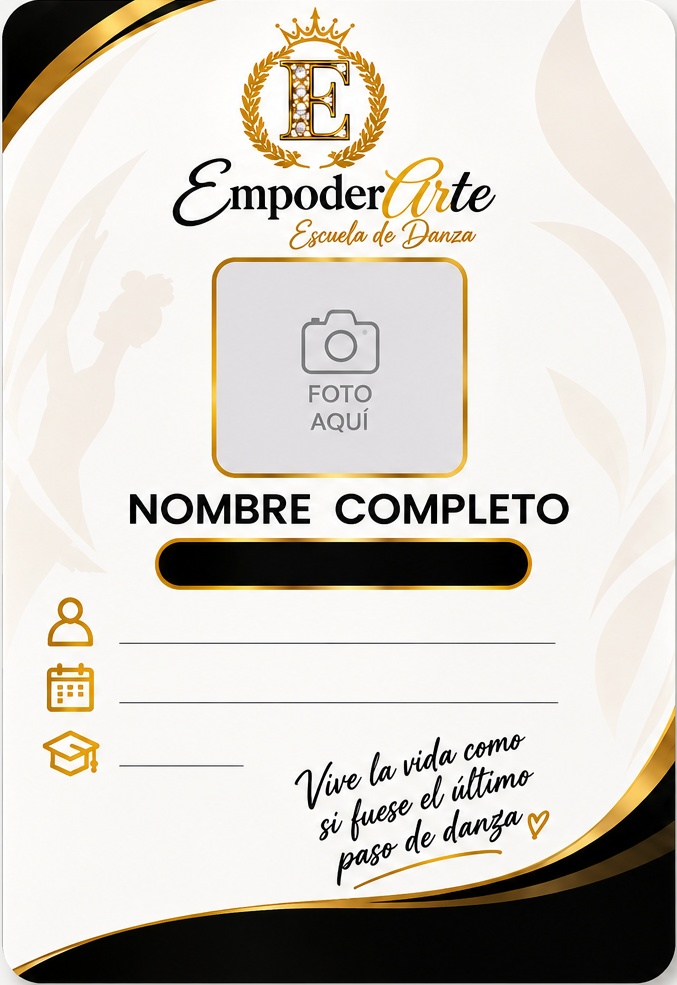
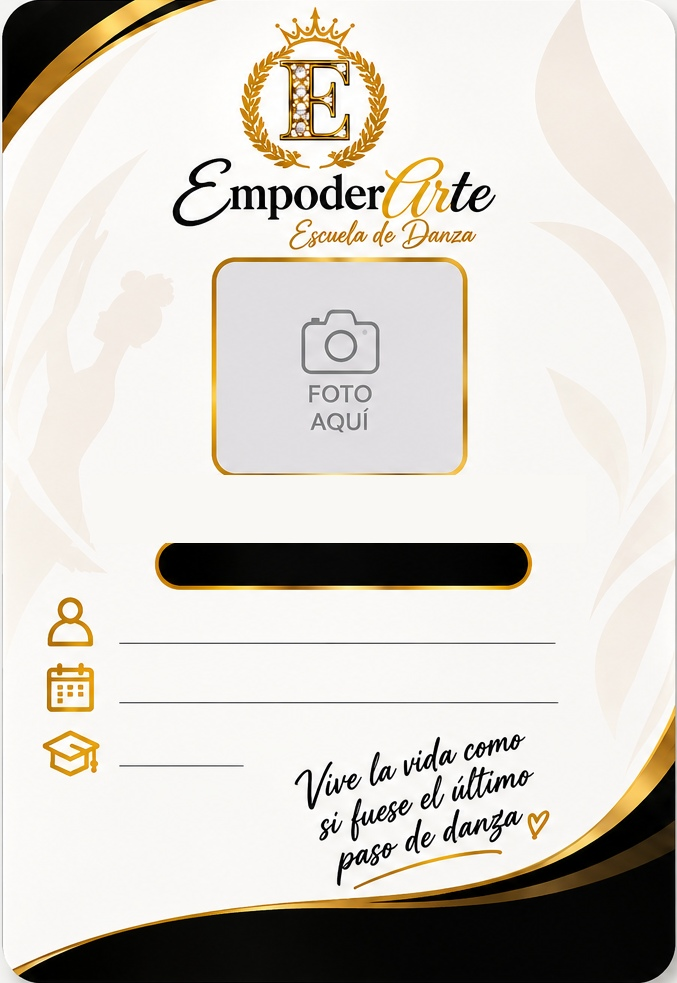
Add files via upload

diff --git a/index.html b/index.html
@@ -136,12 +136,15 @@
 .cred-exact img.cred-bg{position:absolute;inset:0;width:100%;height:100%;object-fit:fill;display:block}
 .cred-overlay{position:absolute;inset:0;font-family:Arial,Helvetica,sans-serif}
 .cred-photo-exact{position:absolute;left:31.875%;top:24.64%;width:37.03%;height:22.58%;object-fit:cover;border-radius:2.2mm;border:0;z-index:3}
-.cred-name-mask{position:absolute;left:14.375%;top:47.99%;width:71.25%;height:5.15%;background:rgba(255,255,255,.97);border-radius:1.5mm;z-index:1}
+.cred-name-mask{display:none}
 .cred-name-exact{position:absolute;left:14.84%;top:48.76%;width:70.31%;height:4.33%;display:flex;align-items:center;justify-content:center;color:#111;font-family:Georgia,serif;font-size:3mm;font-weight:700;text-transform:uppercase;line-height:1;white-space:nowrap;overflow:hidden;z-index:2}
 .cred-role-exact{position:absolute;left:26.56%;top:53.30%;width:46.88%;height:4.85%;display:flex;align-items:center;justify-content:center;background:#050505;color:#fff;border:.45mm solid #c99a32;border-radius:28px;letter-spacing:.7mm;font-size:3mm;font-weight:700;z-index:3}
-.cred-data-exact{position:absolute;left:19.69%;top:58.56%;width:44.53%;height:18.04%;color:#111;background:transparent;line-height:1.08;z-index:3}
-.cred-data-exact .lbl{display:block;font-size:1.75mm;margin-top:0;color:#111}
-.cred-data-exact .val{display:block;font-size:2.35mm;font-weight:700;margin-bottom:1.2mm;background:rgba(255,255,255,.97);width:100%;white-space:nowrap;overflow:hidden;color:#111}
+.cred-data-exact{position:absolute;left:17.2%;top:58.8%;width:66.2%;height:18.2%;color:#111;z-index:3;font-family:Arial,Helvetica,sans-serif}
+.cred-data-exact .data-line{height:33.33%;display:flex;align-items:center;gap:1.2mm;white-space:nowrap;overflow:hidden;line-height:1}
+.cred-data-exact .lbl{font-size:1.85mm;color:#222;font-weight:700;flex:0 0 auto}
+.cred-data-exact .val{font-size:2.35mm;font-weight:800;color:#111;white-space:nowrap;overflow:hidden;text-overflow:ellipsis;min-width:0}
+.cred-data-exact .discipline-line{width:54%}
+.cred-data-exact .discipline-line .val{max-width:45%}
 .cred-qr-exact{position:absolute;left:9.53%;top:78.04%;width:25.78%;height:13.61%;display:flex;align-items:center;justify-content:center;overflow:hidden;background:#fff;z-index:3}
 .cred-qr-exact img{width:100%;height:100%;display:block;object-fit:contain}
 @media print{body *{visibility:hidden!important}.cred-print-wrap,.cred-print-wrap *{visibility:visible!important}.cred-print-wrap{position:absolute;left:0;top:0;width:100%;height:100%;background:#fff!important;padding:0!important;gap:8mm!important;align-items:center;justify-content:center;flex-wrap:nowrap}.cred-exact{box-shadow:none!important;break-inside:avoid;page-break-inside:avoid}}
@@ -250,7 +253,11 @@ function credentialMarkup(p,type){
     <div class="cred-size-row"><label>Ancho (mm)<input id="credSizeW" type="number" min="40" max="100" step="1" value="56" oninput="updateCredentialSize()"></label><label>Alto (mm)<input id="credSizeH" type="number" min="60" max="140" step="1" value="85" oninput="updateCredentialSize()"></label><span class="small muted">Tamaño inicial: 56 × 85 mm. Puedes cambiarlo.</span></div>
     <div class="cred-edit-actions"><button class="btn gold" onclick="downloadCredentialPNG()">⬇ Descargar frente + reverso</button><button class="btn primary" onclick="printCredential()">🖨 Imprimir / PDF</button></div></div>
   <div class="cred-print-wrap" id="credentialPreview">
-    <div class="cred-exact" id="credentialFrontExact"><img class="cred-bg" src="/credential-front-clean.jpg" alt="Credencial frente"><div class="cred-overlay">${photo}<div class="cred-name-exact" id="credPreviewName">${safeName}</div><div class="cred-role-exact"><span id="credPreviewRole">${role}</span></div><div class="cred-data-exact"><div class="data-line"><span class="lbl">Matrícula:</span><span class="val" id="credPreviewMat">${safeMat}</span></div><div class="data-line"><span class="lbl">Ingreso:</span><span class="val" id="credPreviewDate">${safeDate}</span></div><div class="data-line"><span class="lbl">Disciplina:</span><span class="val" id="credPreviewDisc">${safeDisc}</span></div></div><div id="credqr" class="cred-qr-exact"></div></div></div>
+    <div class="cred-exact" id="credentialFrontExact"><img class="cred-bg" src="/credential-front-clean.jpg" alt="Credencial frente"><div class="cred-overlay">${photo}<div class="cred-name-exact" id="credPreviewName">${safeName}</div><div class="cred-role-exact"><span id="credPreviewRole">${role}</span></div><div class="cred-data-exact">
+      <div class="data-line"><span class="lbl">Matrícula:</span><span class="val" id="credPreviewMat">${safeMat}</span></div>
+      <div class="data-line"><span class="lbl">Fecha de ingreso:</span><span class="val" id="credPreviewDate">${safeDate}</span></div>
+      <div class="data-line discipline-line"><span class="lbl">Disciplina:</span><span class="val" id="credPreviewDisc">${safeDisc}</span></div>
+    </div><div id="credqr" class="cred-qr-exact"></div></div></div>
     <div class="cred-exact" id="credentialBackExact"><img class="cred-bg" src="/credential-back-clean.jpg" alt="Credencial reverso"></div>
   </div>`;
   setTimeout(updateCredentialSize,0);
@@ -280,9 +287,11 @@ async function credentialCanvasData(){
   const [front,back,qr]=await Promise.all([load('/credential-front-clean.jpg'),load('/credential-back-clean.jpg'),load('/api/credential-qr?text='+encodeURIComponent('EMPODERARTE|'+role+'|'+mat))]);
   const cw=677,ch=985,gap=55,canvas=document.createElement('canvas');canvas.width=cw*2+gap;canvas.height=ch;const ctx=canvas.getContext('2d');ctx.fillStyle='#fff';ctx.fillRect(0,0,canvas.width,canvas.height);ctx.drawImage(front,0,0,cw,ch);ctx.drawImage(back,cw+gap,0,cw,ch);
   if(window.__credentialPhotoData){const ph=await load(window.__credentialPhotoData);ctx.save();ctx.beginPath();ctx.roundRect(210,260,254,218,18);ctx.clip();ctx.drawImage(ph,210,260,254,218);ctx.restore();ctx.strokeStyle='#c9962e';ctx.lineWidth=3;ctx.strokeRect(210,260,254,218)}
-  ctx.fillStyle='rgba(255,255,255,.98)';ctx.fillRect(115,486,447,60);ctx.textAlign='center';ctx.textBaseline='middle';ctx.fillStyle='#111';let fs=35;ctx.font=`800 ${fs}px Arial`;while(fs>18&&ctx.measureText(name.toUpperCase()).width>430){fs--;ctx.font=`800 ${fs}px Arial`;}ctx.fillText(name.toUpperCase(),338,515);
+  ctx.fillStyle='rgba(249,248,245,.98)';ctx.fillRect(100,478,477,64);ctx.textAlign='center';ctx.textBaseline='middle';ctx.fillStyle='#111';let fs=34;ctx.font=`800 ${fs}px Arial`;while(fs>18&&ctx.measureText(name.toUpperCase()).width>430){fs--;ctx.font=`800 ${fs}px Arial`;}ctx.fillText(name.toUpperCase(),338,512);
   ctx.fillStyle='#050505';ctx.fillRect(157,542,363,45);ctx.strokeStyle='#c9962e';ctx.lineWidth=5;ctx.strokeRect(159,544,359,41);ctx.fillStyle='#fff';ctx.font='800 25px Arial';ctx.fillText(role,338,566);
-  ctx.textAlign='left';ctx.fillStyle='#111';ctx.font='700 15px Arial';ctx.fillText('Matrícula:',183,649);ctx.font='800 20px Arial';ctx.fillText(mat,268,649);ctx.font='700 15px Arial';ctx.fillText('Ingreso:',183,709);ctx.font='800 20px Arial';ctx.fillText(date,258,709);ctx.font='700 15px Arial';ctx.fillText('Disciplina:',183,769);ctx.font='800 20px Arial';ctx.fillText(disc,270,769);ctx.drawImage(qr,61,773,153,153);
+  ctx.textAlign='left';ctx.fillStyle='#111';ctx.font='700 15px Arial';ctx.fillText('Matrícula:',116,635);ctx.font='800 20px Arial';ctx.fillText(mat,218,635);
+  ctx.font='700 15px Arial';ctx.fillText('Fecha de ingreso:',116,694);ctx.font='800 20px Arial';ctx.fillText(date,286,694);
+  ctx.font='700 15px Arial';ctx.fillText('Disciplina:',116,753);ctx.font='800 20px Arial';ctx.fillText(disc,218,753);ctx.drawImage(qr,65,778,150,150);
   return {canvas,name};
 }
 async function downloadCredentialPNG(){
